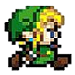
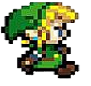
player

diff --git a/Game.py b/Game.py
@@ -2,20 +2,40 @@ import pygame
 import sys
 import os
 
-FPS = 50
+FPS = 15
 size = WIDTH, HEIGHT = 1187, 660
 SIZE = WIDTH, HEIGHT = 1187, 660
 
 pygame.init()
 screen = pygame.display.set_mode(size)
-pygame.display.set_caption('В поисках утерянного клада')
+pygame.display.set_caption('Игра')
+
 clock = pygame.time.Clock()
+
+
+# функция для загрузки изображений
+def load_image(name, colorkey=None):
+    fullname = os.path.join('images', name)
+    image = pygame.image.load(fullname).convert()
+    if colorkey is not None:
+        if colorkey == -1:
+            colorkey = image.get_at((0, 0))
+        image.set_colorkey(colorkey)
+    else:
+        image = image.convert_alpha()
+    return image
+
+
+# ОТРИСОВККА фона
+background_image = pygame.image.load('images/fon.png')
+background_image = pygame.transform.scale(background_image, size)
 
 
 # функция для завершения программы
 def terminate():
     pygame.quit()
     sys.exit()
+
 
 # Заставка
 def zastavka():
@@ -89,10 +109,8 @@ def screen_igra():
                     Tile('life.png', x, y)
                 elif level[y][x] == 'm':
                     Tile('money_cr.png', x, y)
-                elif level[y][x] == '@':
-                    new_player = Player(x, y)
 
-        return new_player, x, y
+        return x, y
 
     # Класс для отображения тайла
     class Tile(pygame.sprite.Sprite):
@@ -102,36 +120,17 @@ def screen_igra():
             self.rect = self.image.get_rect().move(
                 tile_width * pos_x, tile_height * pos_y)
 
-    # класс для отображения игрока
-    class Player(pygame.sprite.Sprite):
-        def __init__(self, pos_x, pos_y):
-            super().__init__(player_group, all_sprites)
-            self.image = player_image
-            self.rect = self.image.get_rect().move(tile_width * pos_x, tile_height * pos_y + 2)
-            self.pos = pos_x, pos_y
-            self.direction = ''  # начальное направление движения
-            self.moving = False  # флаг движения
-            self.movement_x = 0  # смещение по x
-            self.movement_y = 0  # смещение пo y
-
-        def move(self, x, y):
-            self.pos = x, y
-            self.rect = self.image.get_rect().move(tile_width * x, tile_height * y + 2)
-
-        def update(self):  # функция для обновления координат игрока
-            if self.moving:
-                if self.direction == 'left' and self.rect.x > 0:  # движение влево
-                    self.rect.left -= 0.5
-                if self.direction == 'right' and self.rect.x < level_x:  # движение вправо
-                    self.rect.left += 0.5
-                if self.direction == 'up' and self.rect.y > 0:  # движение вверх
-                    self.rect.top -= 0.5
-                if self.direction == 'down' and self.rect.y < level_y:  # движение вниз
-                    self.rect.top += 0.5
-
 
     # загрузка изображения игрока
-    player_image = load_image('pl.png', -1)
+    animation_images_left = [load_image('pl5.png', -1),
+                             load_image('pl6.png', -1),
+                             load_image('pl7.png', -1),
+                             load_image('pl8.png', -1)]
+
+    animation_images_right = [load_image('pl.png', -1),
+                              load_image('pl2.png', -1),
+                              load_image('pl3.png', -1),
+                              load_image('pl4.png', -1)]
 
     # размеры тайла
     tile_width = tile_height = 74
@@ -141,47 +140,114 @@ def screen_igra():
     player_group = pygame.sprite.Group()  # Группа спрайтов для игрока
 
     level = load_level('level.txt')  # Загрузка уровня из файла
-    player, level_x, level_y = generate_level(level)  # Генерация уровня
-    level_x = WIDTH / tile_width
-    level_y = HEIGHT / tile_height
+    level_x, level_y = generate_level(level)  # Генерация уровня
+    # загрузка изображения игрока
+    animation_images_left = [load_image('pl5.png', -1),
+                             load_image('pl6.png', -1),
+                             load_image('pl7.png', -1),
+                             load_image('pl8.png', -1)]
 
-    # создание объекта игрока
-    pos_x, pos_y = 100, 100
-    player = Player(pos_x, pos_y)
+    animation_images_right = [load_image('pl.png', -1),
+                              load_image('pl2.png', -1),
+                              load_image('pl3.png', -1),
+                              load_image('pl4.png', -1)]
 
+    animation_images_idle = [load_image('pl.png', -1)]
+
+    class Player(pygame.sprite.Sprite):
+        def __init__(self, pos_x, pos_y):
+            super().__init__(player_group, all_sprites)
+            self.animation_images_left = animation_images_left
+            self.animation_images_right = animation_images_right
+            self.animation_images_idle = animation_images_idle
+            self.current_frame = 0
+            self.frame_delay = 1000000  # задержка между кадрами
+            self.direction = 'idle'  # начальное состояние игрока
+            self.image = self.animation_images_idle[0]
+            self.rect = self.image.get_rect().move(tile_width * pos_x, tile_height * pos_y + 2)
+            self.pos = pos_x, pos_y
+
+        def move(self, x, y):
+            self.pos = x, y
+            if self.direction == 'left':
+                self.rect = self.image.get_rect().move(tile_width * x, tile_height * y + 2)
+            elif self.direction == 'right':
+                self.rect = self.image.get_rect().move(tile_width * x, tile_height * y + 2)
+            elif self.direction == 'idle':
+                self.rect = self.image.get_rect().move(tile_width * x, tile_height * y + 2)
+
+        def update_animation(self):
+            if self.direction == 'left':
+                self.current_frame = (self.current_frame + 1) % len(self.animation_images_left)
+                self.image = self.animation_images_left[self.current_frame]
+            elif self.direction == 'right':
+                self.current_frame = (self.current_frame + 1) % len(self.animation_images_right)
+                self.image = self.animation_images_right[self.current_frame]
+            elif self.direction == 'idle':
+                self.current_frame = (self.current_frame + 1) % len(self.animation_images_idle)
+                self.image = self.animation_images_idle[self.current_frame]
+
+        def change_direction(self, direction):
+            self.direction = direction
+
+        def df(self):
+            screen.blit(self.image, (catx, caty))
+
+    caty = 10
+    catx = 10
+    movingRight = False
+    movingDown = False
+    movingLeft = False
+    movingUp = False
+    # инициализация игрока
+    player = Player(catx, caty)
     # главный игровой цикл
     while True:
         for event in pygame.event.get():
             if event.type == pygame.QUIT:
                 terminate()
+            if event.type == pygame.KEYDOWN:
+                if event.key == pygame.K_RIGHT:
+                    movingRight = True
+                elif event.key == pygame.K_DOWN:
+                    movingDown = True
+                elif event.key == pygame.K_LEFT:
+                    movingLeft = True
+                elif event.key == pygame.K_UP:
+                    movingUp = True
 
-        keys = pygame.key.get_pressed()
+            if event.type == pygame.KEYUP:
+                if event.key == pygame.K_RIGHT:
+                    movingRight = False
+                elif event.key == pygame.K_DOWN:
+                    movingDown = False
+                elif event.key == pygame.K_LEFT:
+                    movingLeft = False
+                elif event.key == pygame.K_UP:
+                    movingUp = False
 
-        # обработка движения
-        if not player.moving:
-            if keys[pygame.K_LEFT]:
-                player.moving = True
-                player.direction = 'left'
-            elif keys[pygame.K_RIGHT]:
-                player.moving = True
-                player.direction = 'right'
-            elif keys[pygame.K_UP]:
-                player.moving = True
-                player.direction = 'up'
-            elif keys[pygame.K_DOWN]:
-                player.moving = True
-                player.direction = 'down'
+        # actually make the player move
+        if movingRight:
+            player.change_direction('right')
+            catx += 17
+        elif movingDown:
+            player.change_direction('idle')
+            caty += 17
+        elif movingLeft:
+            player.change_direction('left')
+            catx -= 17
+        elif movingUp:
+            player.change_direction('idle')
+            caty -= 17
         else:
-            if not any([keys[pygame.K_LEFT], keys[pygame.K_RIGHT], keys[pygame.K_UP], keys[pygame.K_DOWN]]):
-                player.moving = False
+            player.change_direction('idle')
 
         screen.blit(background_image, (0, 0))
-        tiles_group.draw(screen)  # отрисовака тайлов
-        player_group.update()  # обновление координат игрока
-        player_group.draw(screen)  # отрисовка игрока
-        pygame.display.flip()
+        tiles_group.draw(screen)  # отрисовка тайлов
+        player.update_animation()
+        player.df()
+        pygame.display.update()
         clock.tick(FPS)
-
 
 class Menu:
     def __init__(self, x, y, width, height, kartinka, text):
